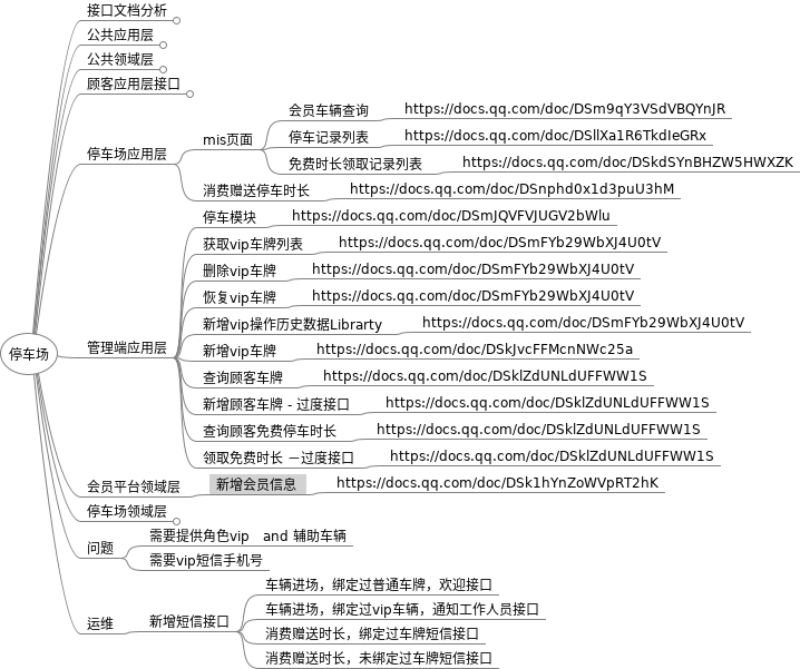
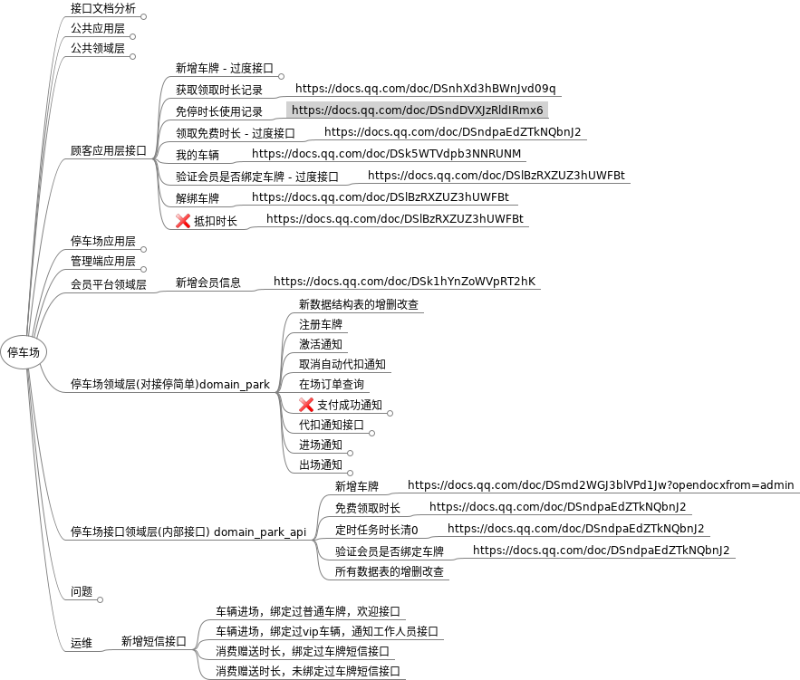
modify park

Changed region(s): [[0.0, 0.0, 1.0, 1.0]]

diff --git a/mm/停车场/停车场.mm b/mm/停车场/停车场.mm
@@ -65,12 +65,15 @@
 <node CREATED="1566294694425" ID="ID_942324607" MODIFIED="1566294694844" TEXT="https://docs.qq.com/doc/DSk1hYnZoWVpRT2hK"/>
 </node>
 </node>
-<node CREATED="1565768661817" FOLDED="true" ID="ID_1171392039" MODIFIED="1566465037973" POSITION="right" TEXT="&#x987e;&#x5ba2;&#x5e94;&#x7528;&#x5c42;&#x63a5;&#x53e3;">
-<node CREATED="1565768666456" FOLDED="true" ID="ID_835217155" MODIFIED="1565772892944" TEXT="&#x65b0;&#x589e;&#x8f66;&#x724c; - &#x8fc7;&#x5ea6;&#x63a5;&#x53e3;">
+<node CREATED="1565768661817" ID="ID_1171392039" MODIFIED="1591345028675" POSITION="right" TEXT="&#x987e;&#x5ba2;&#x5e94;&#x7528;&#x5c42;&#x63a5;&#x53e3;">
+<node CREATED="1565768666456" FOLDED="true" ID="ID_835217155" MODIFIED="1591345033661" TEXT="&#x65b0;&#x589e;&#x8f66;&#x724c; - &#x8fc7;&#x5ea6;&#x63a5;&#x53e3;">
 <node CREATED="1565772891042" ID="ID_290005614" MODIFIED="1565772891398" TEXT="https://docs.qq.com/doc/DSmd2WGJ3blVPd1Jw?opendocxfrom=admin"/>
 </node>
 <node CREATED="1565773548115" ID="ID_695051074" MODIFIED="1565773548741" TEXT="&#x83b7;&#x53d6;&#x9886;&#x53d6;&#x65f6;&#x957f;&#x8bb0;&#x5f55; ">
 <node CREATED="1565773556155" ID="ID_480932569" MODIFIED="1565773556574" TEXT="https://docs.qq.com/doc/DSnhXd3hBWnJvd09q"/>
+</node>
+<node CREATED="1591348882582" ID="ID_387880717" MODIFIED="1591348883873" TEXT="&#x514d;&#x505c;&#x65f6;&#x957f;&#x4f7f;&#x7528;&#x8bb0;&#x5f55;">
+<node CREATED="1591348889823" ID="ID_455197090" MODIFIED="1591348890305" TEXT="https://docs.qq.com/doc/DSndDVXJzRldIRmx6"/>
 </node>
 <node CREATED="1565776164910" ID="ID_422842739" MODIFIED="1565776189746" TEXT="&#x9886;&#x53d6;&#x514d;&#x8d39;&#x65f6;&#x957f; - &#x8fc7;&#x5ea6;&#x63a5;&#x53e3;">
 <node CREATED="1565776202884" ID="ID_686905387" MODIFIED="1565776203279" TEXT="https://docs.qq.com/doc/DSndpaEdZTkNQbnJ2"/>
@@ -84,11 +87,12 @@
 <node CREATED="1565852036829" ID="ID_1592883598" MODIFIED="1565852038262" TEXT="&#x89e3;&#x7ed1;&#x8f66;&#x724c; ">
 <node CREATED="1565852043306" ID="ID_257773217" MODIFIED="1565852043787" TEXT="https://docs.qq.com/doc/DSlBzRXZUZ3hUWFBt "/>
 </node>
-<node CREATED="1565857838582" ID="ID_140102897" MODIFIED="1565857842750" TEXT="&#x62b5;&#x6263;&#x65f6;&#x957f;">
+<node CREATED="1565857838582" ID="ID_140102897" MODIFIED="1591345134282" TEXT="&#x62b5;&#x6263;&#x65f6;&#x957f;">
+<icon BUILTIN="button_cancel"/>
 <node CREATED="1565857850981" ID="ID_704815562" MODIFIED="1565857851328" TEXT="https://docs.qq.com/doc/DSlBzRXZUZ3hUWFBt"/>
 </node>
 </node>
-<node CREATED="1566465003570" ID="ID_887705455" MODIFIED="1566465062722" POSITION="right" TEXT="&#x505c;&#x8f66;&#x573a;&#x5e94;&#x7528;&#x5c42;">
+<node CREATED="1566465003570" FOLDED="true" ID="ID_887705455" MODIFIED="1591345111630" POSITION="right" TEXT="&#x505c;&#x8f66;&#x573a;&#x5e94;&#x7528;&#x5c42;">
 <node CREATED="1566202306648" ID="ID_1927349749" MODIFIED="1566465082971" TEXT="mis&#x9875;&#x9762;">
 <node CREATED="1566202318103" ID="ID_1079470447" MODIFIED="1566202327657" TEXT="&#x4f1a;&#x5458;&#x8f66;&#x8f86;&#x67e5;&#x8be2;">
 <node CREATED="1566202335609" ID="ID_443533254" MODIFIED="1566202335884" TEXT="https://docs.qq.com/doc/DSm9qY3VSdVBQYnJR"/>
@@ -104,7 +108,7 @@
 <node CREATED="1566465136298" ID="ID_762518424" MODIFIED="1566465136699" TEXT="https://docs.qq.com/doc/DSnphd0x1d3puU3hM"/>
 </node>
 </node>
-<node CREATED="1565946890063" ID="ID_20940406" MODIFIED="1566465040244" POSITION="right" TEXT="&#x7ba1;&#x7406;&#x7aef;&#x5e94;&#x7528;&#x5c42;">
+<node CREATED="1565946890063" FOLDED="true" ID="ID_20940406" MODIFIED="1591345023598" POSITION="right" TEXT="&#x7ba1;&#x7406;&#x7aef;&#x5e94;&#x7528;&#x5c42;">
 <node CREATED="1565946988840" ID="ID_989658342" MODIFIED="1565946996801" TEXT="&#x505c;&#x8f66;&#x6a21;&#x5757;">
 <node CREATED="1565947015863" ID="ID_464747158" MODIFIED="1565947016329" TEXT="https://docs.qq.com/doc/DSmJQVFVJUGV2bWlu"/>
 </node>
@@ -141,22 +145,17 @@
 <node CREATED="1566294748794" ID="ID_1757075187" MODIFIED="1566294749165" TEXT="https://docs.qq.com/doc/DSk1hYnZoWVpRT2hK"/>
 </node>
 </node>
-<node CREATED="1565768643435" FOLDED="true" ID="ID_289905846" MODIFIED="1566464998082" POSITION="right" TEXT="&#x505c;&#x8f66;&#x573a;&#x9886;&#x57df;&#x5c42;">
+<node CREATED="1565768643435" ID="ID_289905846" MODIFIED="1591327812397" POSITION="right" TEXT="&#x505c;&#x8f66;&#x573a;&#x9886;&#x57df;&#x5c42;(&#x5bf9;&#x63a5;&#x505c;&#x7b80;&#x5355;)domain_park">
 <node CREATED="1565772215570" ID="ID_524335538" MODIFIED="1565772227875" TEXT="&#x65b0;&#x6570;&#x636e;&#x7ed3;&#x6784;&#x8868;&#x7684;&#x589e;&#x5220;&#x6539;&#x67e5;"/>
-<node CREATED="1565768652312" ID="ID_149885103" MODIFIED="1566198684495" TEXT="&#x65b0;&#x589e;&#x8f66;&#x724c;">
-<node CREATED="1565772241602" ID="ID_9178364" MODIFIED="1565772242155" TEXT="https://docs.qq.com/doc/DSmd2WGJ3blVPd1Jw?opendocxfrom=admin"/>
+<node CREATED="1591327492994" ID="ID_775317330" MODIFIED="1591327497743" TEXT="&#x6ce8;&#x518c;&#x8f66;&#x724c;"/>
+<node CREATED="1591327499395" ID="ID_1460085223" MODIFIED="1591327504768" TEXT="&#x6fc0;&#x6d3b;&#x901a;&#x77e5;"/>
+<node CREATED="1591343493204" ID="ID_95299164" MODIFIED="1591343498602" TEXT="&#x53d6;&#x6d88;&#x81ea;&#x52a8;&#x4ee3;&#x6263;&#x901a;&#x77e5;"/>
+<node CREATED="1591328781219" ID="ID_1182223519" MODIFIED="1591328786821" TEXT="&#x5728;&#x573a;&#x8ba2;&#x5355;&#x67e5;&#x8be2;"/>
+<node CREATED="1565839419860" FOLDED="true" ID="ID_283909226" MODIFIED="1591344520539" TEXT="&#x652f;&#x4ed8;&#x6210;&#x529f;&#x901a;&#x77e5;">
+<icon BUILTIN="button_cancel"/>
+<node CREATED="1565863220784" ID="ID_703391943" MODIFIED="1591343595940" TEXT="https://docs.qq.com/doc/DSlBzRXZUZ3hUWFBt">
+<icon BUILTIN="button_cancel"/>
 </node>
-<node CREATED="1565776153692" ID="ID_1255592122" MODIFIED="1565776160414" TEXT="&#x9886;&#x53d6;&#x514d;&#x8d39;&#x65f6;&#x957f;">
-<node CREATED="1565776205020" ID="ID_815694920" MODIFIED="1565776205393" TEXT="https://docs.qq.com/doc/DSndpaEdZTkNQbnJ2"/>
-</node>
-<node CREATED="1565776635982" ID="ID_160476195" MODIFIED="1565776646993" TEXT="&#x5b9a;&#x65f6;&#x4efb;&#x52a1;&#x65f6;&#x957f;&#x6e05;0">
-<node CREATED="1565776652221" ID="ID_449971258" MODIFIED="1565776652638" TEXT="https://docs.qq.com/doc/DSndpaEdZTkNQbnJ2"/>
-</node>
-<node CREATED="1565836627463" ID="ID_727397956" MODIFIED="1565836714279" TEXT="&#x9a8c;&#x8bc1;&#x4f1a;&#x5458;&#x662f;&#x5426;&#x7ed1;&#x5b9a;&#x8f66;&#x724c; ">
-<node CREATED="1565836644938" ID="ID_630544826" MODIFIED="1565836645277" TEXT="https://docs.qq.com/doc/DSlBzRXZUZ3hUWFBt"/>
-</node>
-<node CREATED="1565839419860" ID="ID_283909226" MODIFIED="1565839425805" TEXT="&#x652f;&#x4ed8;&#x6210;&#x529f;&#x901a;&#x77e5;">
-<node CREATED="1565863220784" ID="ID_703391943" MODIFIED="1565863224217" TEXT="https://docs.qq.com/doc/DSlBzRXZUZ3hUWFBt"/>
 </node>
 <node CREATED="1566198687250" FOLDED="true" ID="ID_781206383" MODIFIED="1566208878512" TEXT="&#x4ee3;&#x6263;&#x901a;&#x77e5;&#x63a5;&#x53e3;">
 <node CREATED="1566198729687" ID="ID_1934833506" MODIFIED="1566198736516" TEXT="&#x63a5;&#x6536;&#x901a;&#x77e5;"/>
@@ -173,7 +172,22 @@
 <node CREATED="1566208861584" ID="ID_301631993" MODIFIED="1566208862865" TEXT="https://docs.qq.com/doc/DSnphd0x1d3puU3hM"/>
 </node>
 </node>
-<node CREATED="1566204087522" ID="ID_1246757973" MODIFIED="1566204092135" POSITION="right" TEXT="&#x95ee;&#x9898;">
+<node CREATED="1591327418823" ID="ID_486532274" MODIFIED="1591327821013" POSITION="right" TEXT="&#x505c;&#x8f66;&#x573a;&#x63a5;&#x53e3;&#x9886;&#x57df;&#x5c42;(&#x5185;&#x90e8;&#x63a5;&#x53e3;) domain_park_api">
+<node CREATED="1565768652312" ID="ID_149885103" MODIFIED="1591327590161" TEXT="&#x65b0;&#x589e;&#x8f66;&#x724c;">
+<node CREATED="1565772241602" ID="ID_9178364" MODIFIED="1565772242155" TEXT="https://docs.qq.com/doc/DSmd2WGJ3blVPd1Jw?opendocxfrom=admin"/>
+</node>
+<node CREATED="1591343819039" ID="ID_195690471" MODIFIED="1591343830148" TEXT="&#x514d;&#x8d39;&#x9886;&#x53d6;&#x65f6;&#x957f;">
+<node CREATED="1591343831431" ID="ID_1366379864" MODIFIED="1591343832060" TEXT="https://docs.qq.com/doc/DSndpaEdZTkNQbnJ2"/>
+</node>
+<node CREATED="1565776635982" ID="ID_160476195" MODIFIED="1565776646993" TEXT="&#x5b9a;&#x65f6;&#x4efb;&#x52a1;&#x65f6;&#x957f;&#x6e05;0">
+<node CREATED="1565776652221" ID="ID_449971258" MODIFIED="1565776652638" TEXT="https://docs.qq.com/doc/DSndpaEdZTkNQbnJ2"/>
+</node>
+<node CREATED="1591344499432" ID="ID_1295449710" MODIFIED="1591344509430" TEXT="&#x9a8c;&#x8bc1;&#x4f1a;&#x5458;&#x662f;&#x5426;&#x7ed1;&#x5b9a;&#x8f66;&#x724c;">
+<node CREATED="1591344510087" ID="ID_697303236" MODIFIED="1591344510427" TEXT="https://docs.qq.com/doc/DSndpaEdZTkNQbnJ2"/>
+</node>
+<node CREATED="1591345158808" ID="ID_1065056049" MODIFIED="1591345168941" TEXT="&#x6240;&#x6709;&#x6570;&#x636e;&#x8868;&#x7684;&#x589e;&#x5220;&#x6539;&#x67e5;"/>
+</node>
+<node CREATED="1566204087522" FOLDED="true" ID="ID_1246757973" MODIFIED="1591345156510" POSITION="right" TEXT="&#x95ee;&#x9898;">
 <node CREATED="1566204092650" ID="ID_635513337" MODIFIED="1566204116528" TEXT="&#x9700;&#x8981;&#x63d0;&#x4f9b;&#x89d2;&#x8272;vip&#x3000;and &#x8f85;&#x52a9;&#x8f66;&#x8f86;"/>
 <node CREATED="1566204117218" ID="ID_1420730792" MODIFIED="1566204129565" TEXT="&#x9700;&#x8981;vip&#x77ed;&#x4fe1;&#x624b;&#x673a;&#x53f7;"/>
 </node>
